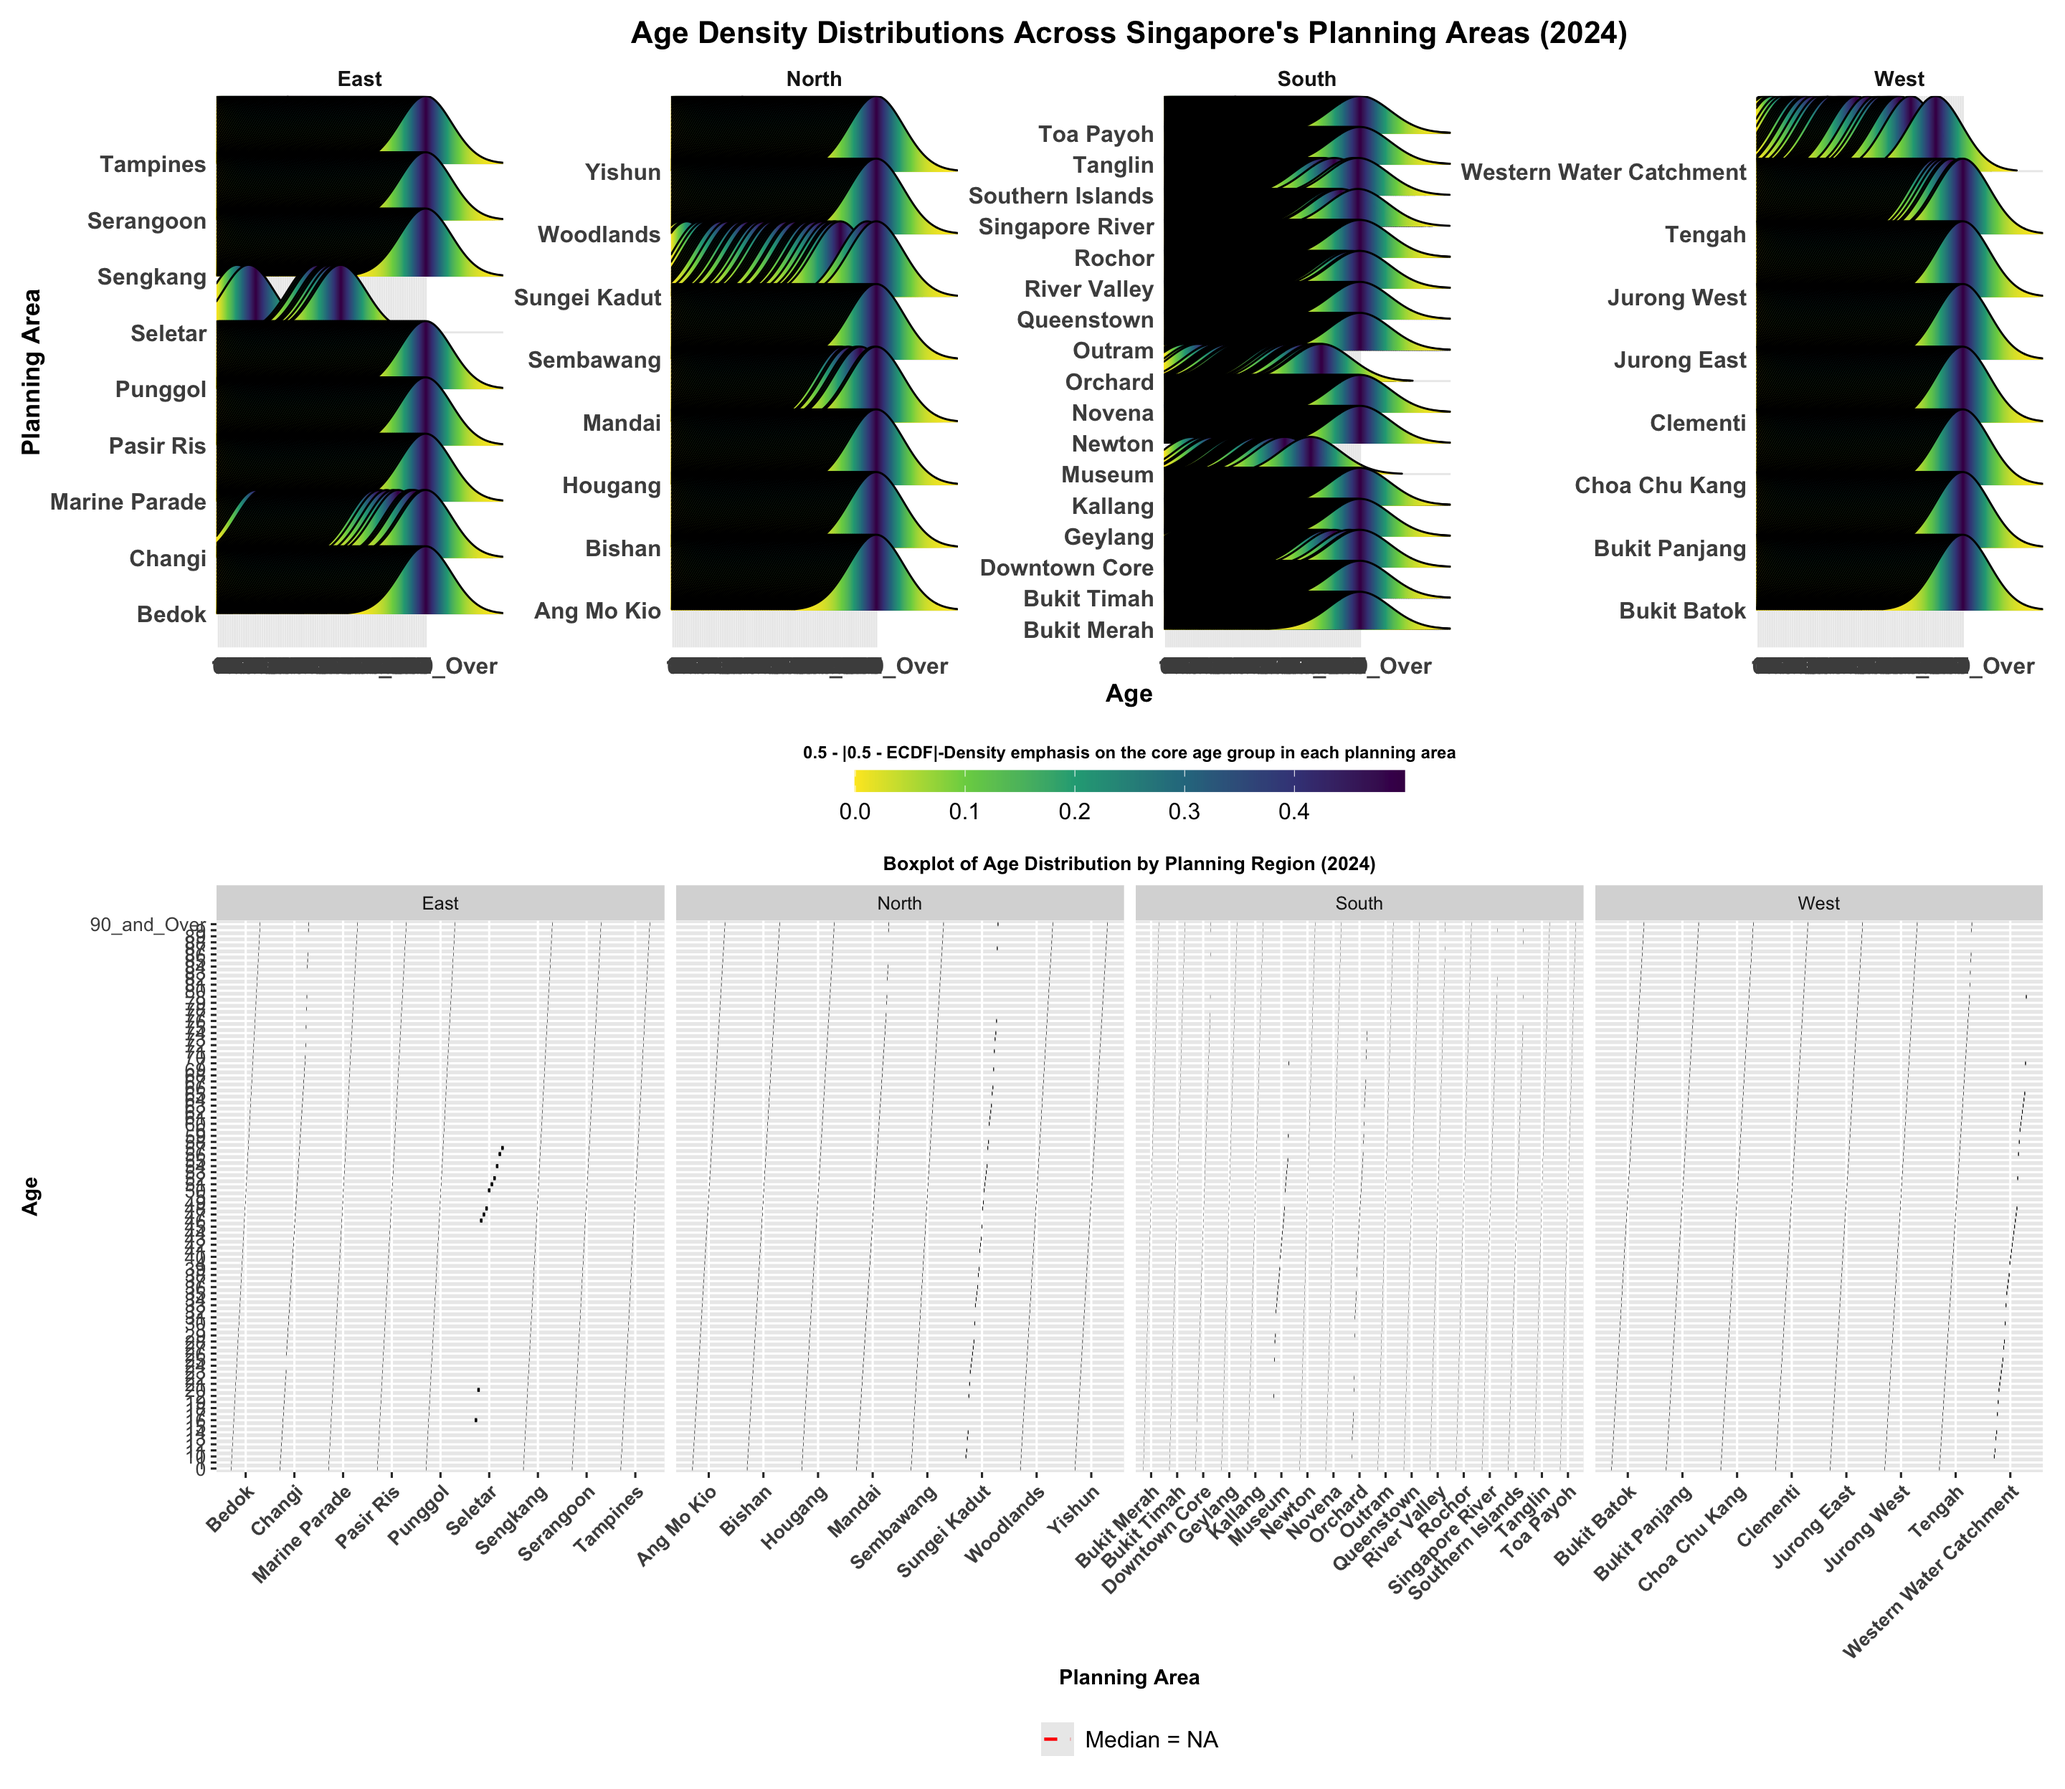
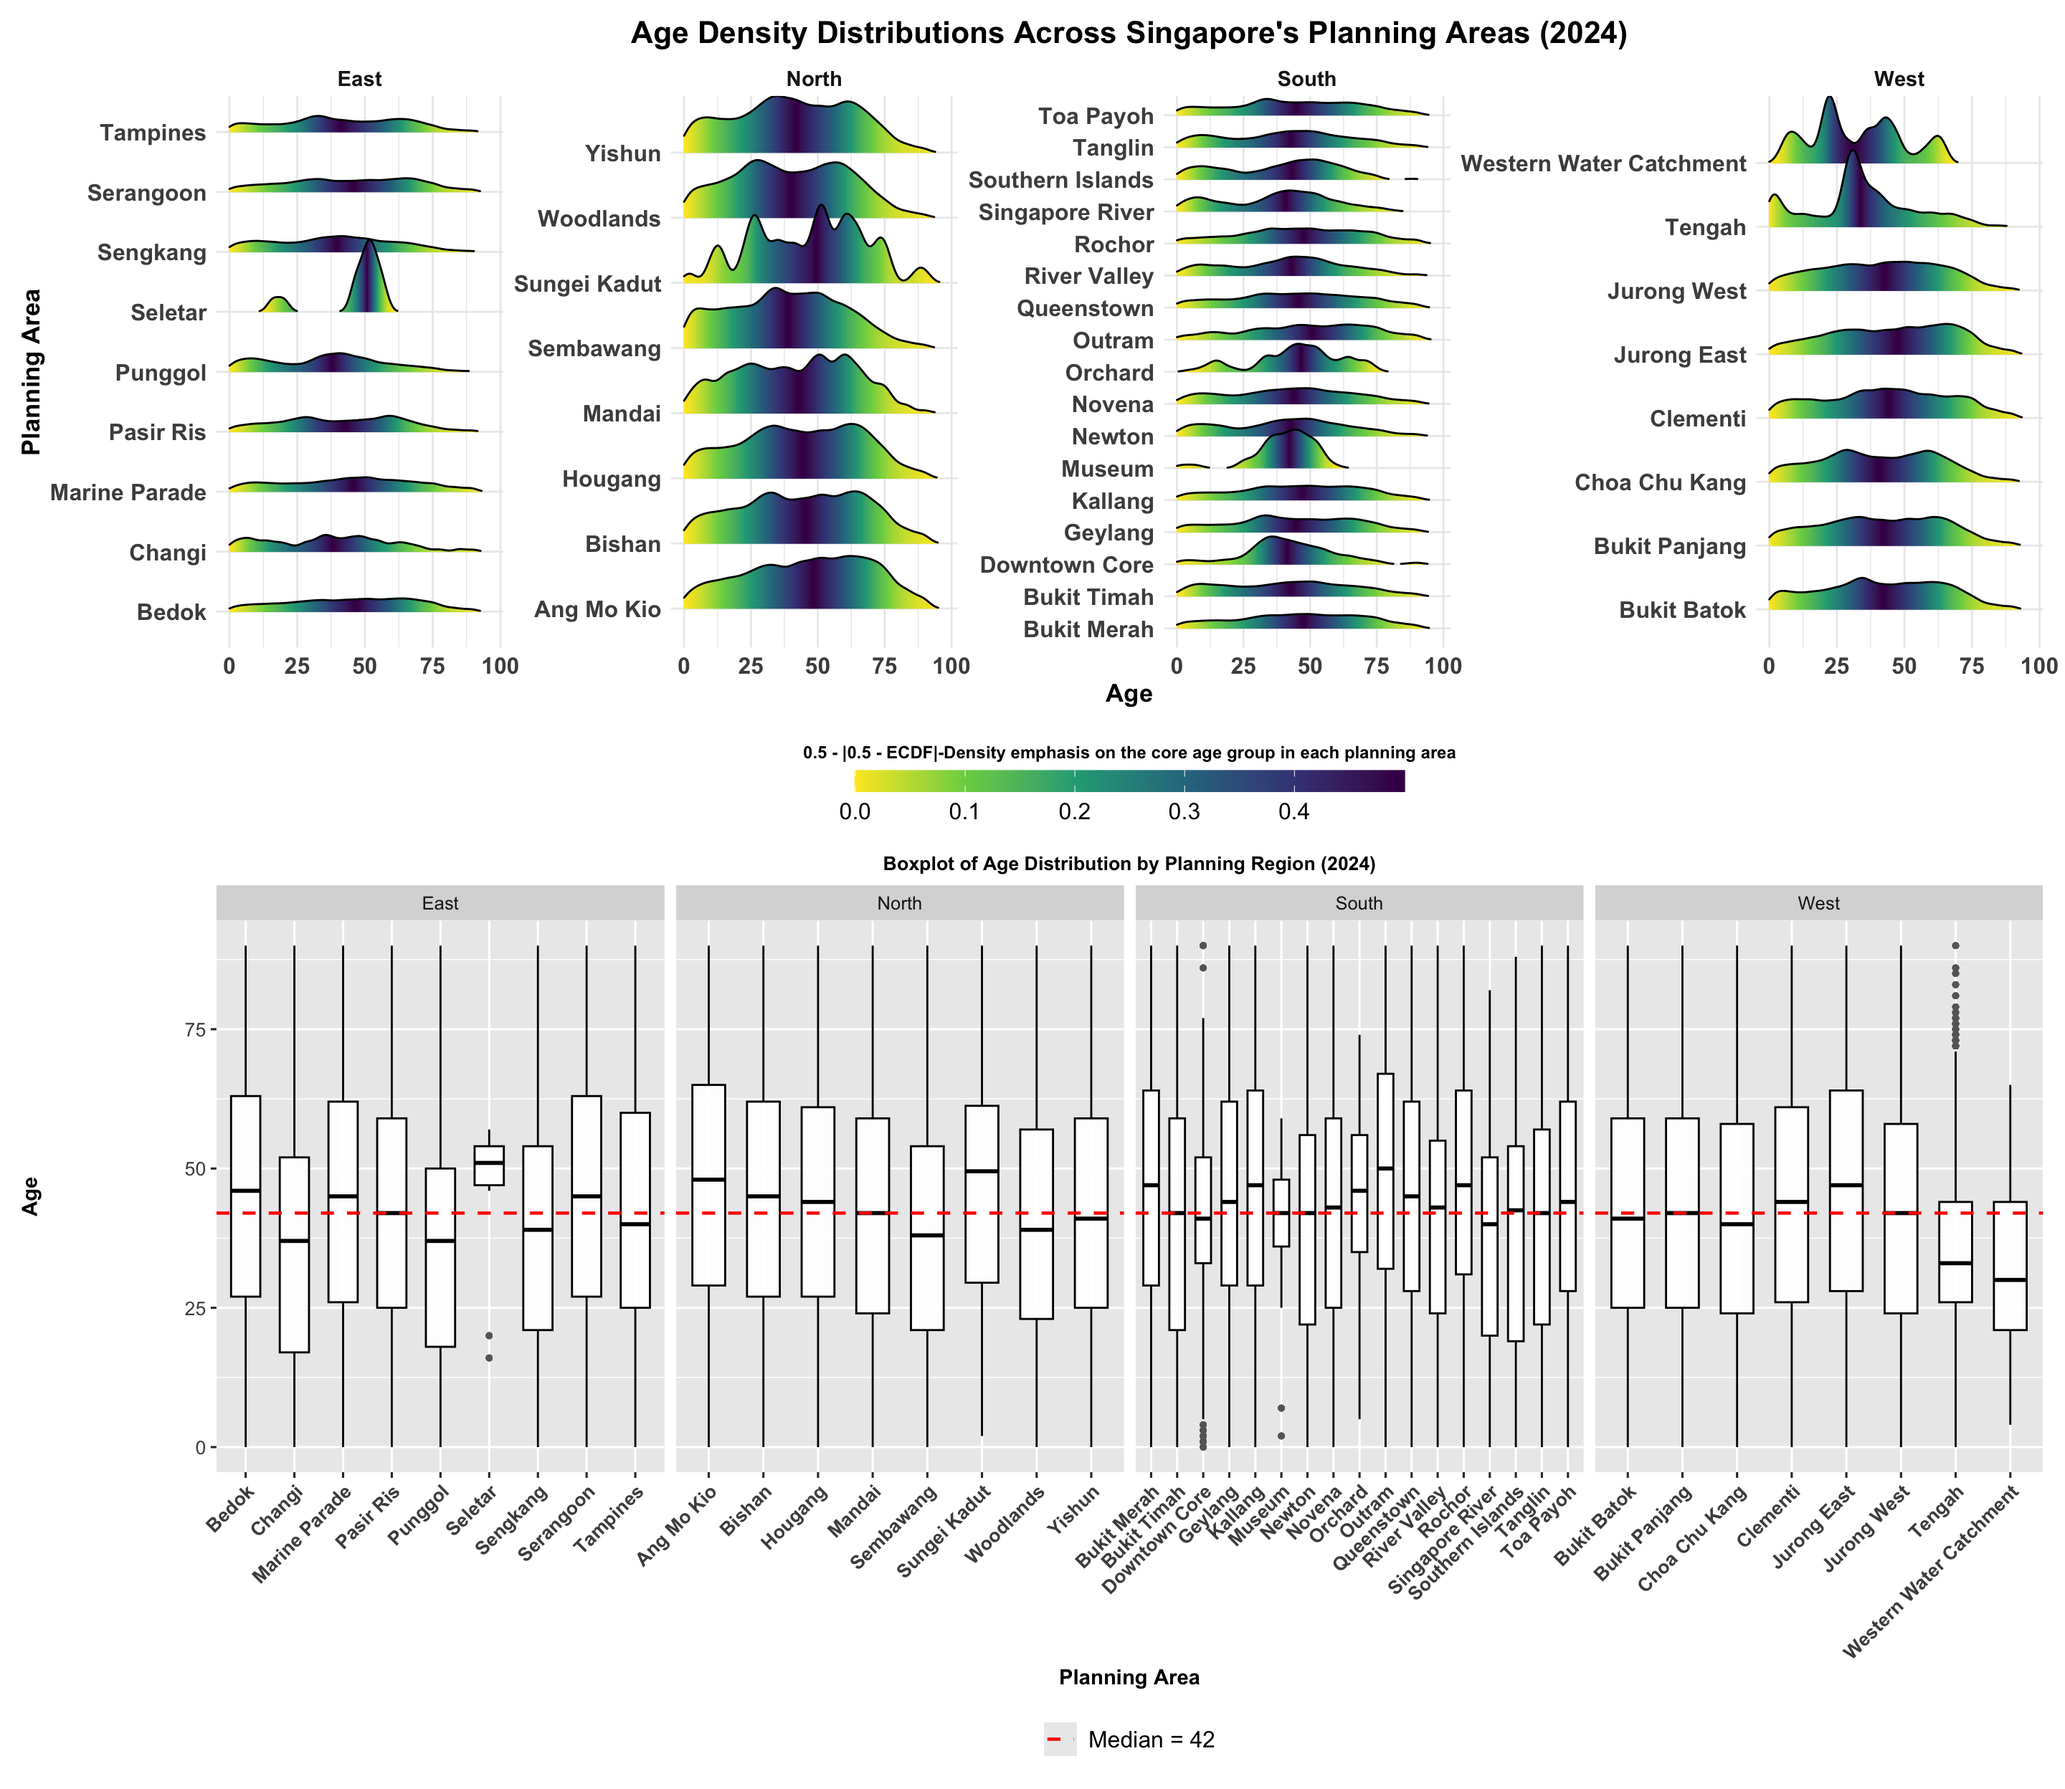
commit tk1.2

Changed region(s): [[0.0625, 0.5, 1.0, 0.8438], [0.0312, 0.0312, 1.0, 0.375], [0.5312, 0.9688, 0.5625, 1.0]]

diff --git a/_site/Take-home_Exercise/Take-home_Ex01/Take-home_Ex01.html b/_site/Take-home_Exercise/Take-home_Ex01/Take-home_Ex01.html
@@ -751,14 +751,25 @@ The dataset is expanded using <code>uncount()</code> to generate one row per ind
 <span id="cb16-32"><a href="#cb16-32" aria-hidden="true" tabindex="-1"></a>    <span class="at">label_x =</span> <span class="fu">ifelse</span>(Sex <span class="sc">==</span> <span class="st">"Males"</span>, mean_age <span class="sc">-</span> <span class="dv">8</span>, mean_age <span class="sc">+</span> <span class="dv">5</span>)  <span class="co"># 左右错开</span></span>
 <span id="cb16-33"><a href="#cb16-33" aria-hidden="true" tabindex="-1"></a>  )</span>
 <span id="cb16-34"><a href="#cb16-34" aria-hidden="true" tabindex="-1"></a></span>
-<span id="cb16-35"><a href="#cb16-35" aria-hidden="true" tabindex="-1"></a><span class="co">#Step 4 : Median caculation</span></span>
-<span id="cb16-36"><a href="#cb16-36" aria-hidden="true" tabindex="-1"></a>median_age <span class="ot">&lt;-</span> <span class="fu">median</span>(df_long_region<span class="sc">$</span>Age, <span class="at">na.rm =</span> <span class="cn">TRUE</span>)</span>
-<span id="cb16-37"><a href="#cb16-37" aria-hidden="true" tabindex="-1"></a>df_median <span class="ot">&lt;-</span> <span class="fu">data.frame</span>(<span class="at">Median =</span> median_age)</span>
-<span id="cb16-38"><a href="#cb16-38" aria-hidden="true" tabindex="-1"></a></span>
-<span id="cb16-39"><a href="#cb16-39" aria-hidden="true" tabindex="-1"></a>df_region_gender <span class="ot">&lt;-</span> df_long_region <span class="sc">%&gt;%</span></span>
-<span id="cb16-40"><a href="#cb16-40" aria-hidden="true" tabindex="-1"></a>  <span class="fu">filter</span>(<span class="sc">!</span><span class="fu">is.na</span>(Sex), <span class="sc">!</span><span class="fu">is.na</span>(Region)) <span class="sc">%&gt;%</span></span>
-<span id="cb16-41"><a href="#cb16-41" aria-hidden="true" tabindex="-1"></a>  <span class="fu">group_by</span>(Region, Sex) <span class="sc">%&gt;%</span></span>
-<span id="cb16-42"><a href="#cb16-42" aria-hidden="true" tabindex="-1"></a>  <span class="fu">summarise</span>(<span class="at">n =</span> <span class="fu">n</span>(), <span class="at">.groups =</span> <span class="st">"drop"</span>)</span></code><button title="Copy to Clipboard" class="code-copy-button"><i class="bi"></i></button></pre></div>
+<span id="cb16-35"><a href="#cb16-35" aria-hidden="true" tabindex="-1"></a><span class="co"># Step 4 : Median calculation with cleaning</span></span>
+<span id="cb16-36"><a href="#cb16-36" aria-hidden="true" tabindex="-1"></a>df_long_region <span class="ot">&lt;-</span> df_long_region <span class="sc">%&gt;%</span></span>
+<span id="cb16-37"><a href="#cb16-37" aria-hidden="true" tabindex="-1"></a>  <span class="fu">mutate</span>(</span>
+<span id="cb16-38"><a href="#cb16-38" aria-hidden="true" tabindex="-1"></a>    <span class="at">Age =</span> <span class="fu">ifelse</span>(Age <span class="sc">==</span> <span class="st">"90_and_Over"</span>, <span class="st">"90"</span>, Age),  <span class="co"># 替换文本</span></span>
+<span id="cb16-39"><a href="#cb16-39" aria-hidden="true" tabindex="-1"></a>    <span class="at">Age =</span> <span class="fu">as.numeric</span>(Age)                           <span class="co"># 转换为数值</span></span>
+<span id="cb16-40"><a href="#cb16-40" aria-hidden="true" tabindex="-1"></a>  ) <span class="sc">%&gt;%</span></span>
+<span id="cb16-41"><a href="#cb16-41" aria-hidden="true" tabindex="-1"></a>  <span class="fu">filter</span>(<span class="sc">!</span><span class="fu">is.na</span>(Age))  <span class="co"># 过滤掉无法转换的行</span></span>
+<span id="cb16-42"><a href="#cb16-42" aria-hidden="true" tabindex="-1"></a></span>
+<span id="cb16-43"><a href="#cb16-43" aria-hidden="true" tabindex="-1"></a>median_age <span class="ot">&lt;-</span> <span class="fu">median</span>(df_long_region<span class="sc">$</span>Age)</span>
+<span id="cb16-44"><a href="#cb16-44" aria-hidden="true" tabindex="-1"></a>df_median <span class="ot">&lt;-</span> <span class="fu">data.frame</span>(<span class="at">Median =</span> median_age)</span>
+<span id="cb16-45"><a href="#cb16-45" aria-hidden="true" tabindex="-1"></a></span>
+<span id="cb16-46"><a href="#cb16-46" aria-hidden="true" tabindex="-1"></a></span>
+<span id="cb16-47"><a href="#cb16-47" aria-hidden="true" tabindex="-1"></a>median_age <span class="ot">&lt;-</span> <span class="fu">median</span>(df_long_region<span class="sc">$</span>Age, <span class="at">na.rm =</span> <span class="cn">TRUE</span>)</span>
+<span id="cb16-48"><a href="#cb16-48" aria-hidden="true" tabindex="-1"></a>df_median <span class="ot">&lt;-</span> <span class="fu">data.frame</span>(<span class="at">Median =</span> median_age)</span>
+<span id="cb16-49"><a href="#cb16-49" aria-hidden="true" tabindex="-1"></a></span>
+<span id="cb16-50"><a href="#cb16-50" aria-hidden="true" tabindex="-1"></a>df_region_gender <span class="ot">&lt;-</span> df_long_region <span class="sc">%&gt;%</span></span>
+<span id="cb16-51"><a href="#cb16-51" aria-hidden="true" tabindex="-1"></a>  <span class="fu">filter</span>(<span class="sc">!</span><span class="fu">is.na</span>(Sex), <span class="sc">!</span><span class="fu">is.na</span>(Region)) <span class="sc">%&gt;%</span></span>
+<span id="cb16-52"><a href="#cb16-52" aria-hidden="true" tabindex="-1"></a>  <span class="fu">group_by</span>(Region, Sex) <span class="sc">%&gt;%</span></span>
+<span id="cb16-53"><a href="#cb16-53" aria-hidden="true" tabindex="-1"></a>  <span class="fu">summarise</span>(<span class="at">n =</span> <span class="fu">n</span>(), <span class="at">.groups =</span> <span class="st">"drop"</span>)</span></code><button title="Copy to Clipboard" class="code-copy-button"><i class="bi"></i></button></pre></div>
 </details>
 </div>
 <p><strong>6.4 Data preparation for Interaction between Region × Age Group × Gender:</strong></p>
